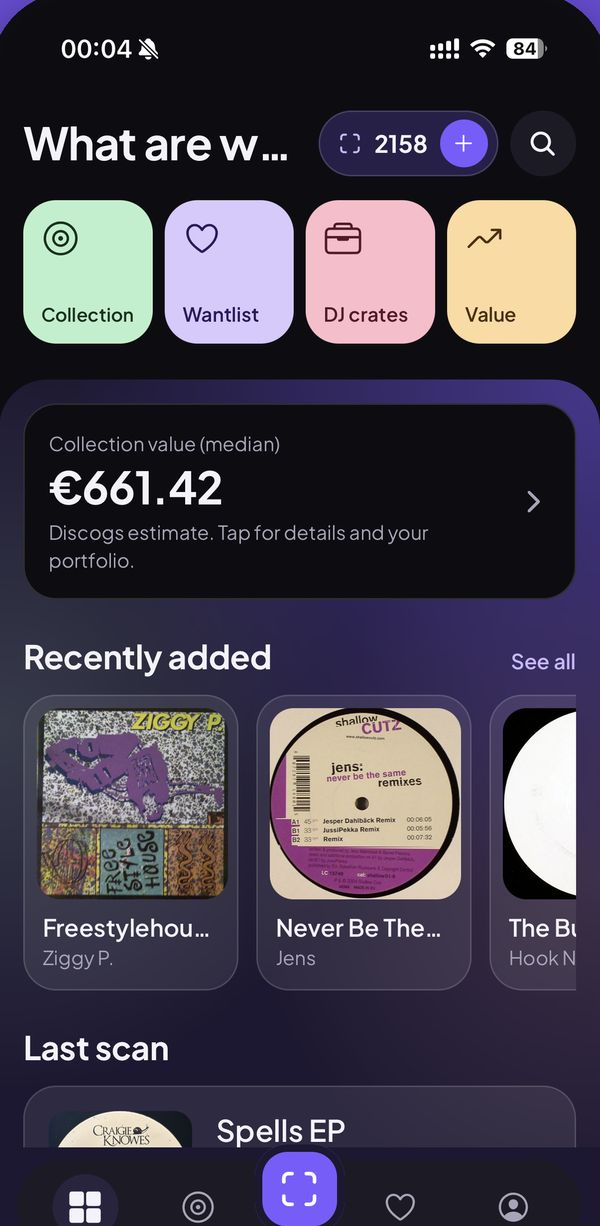
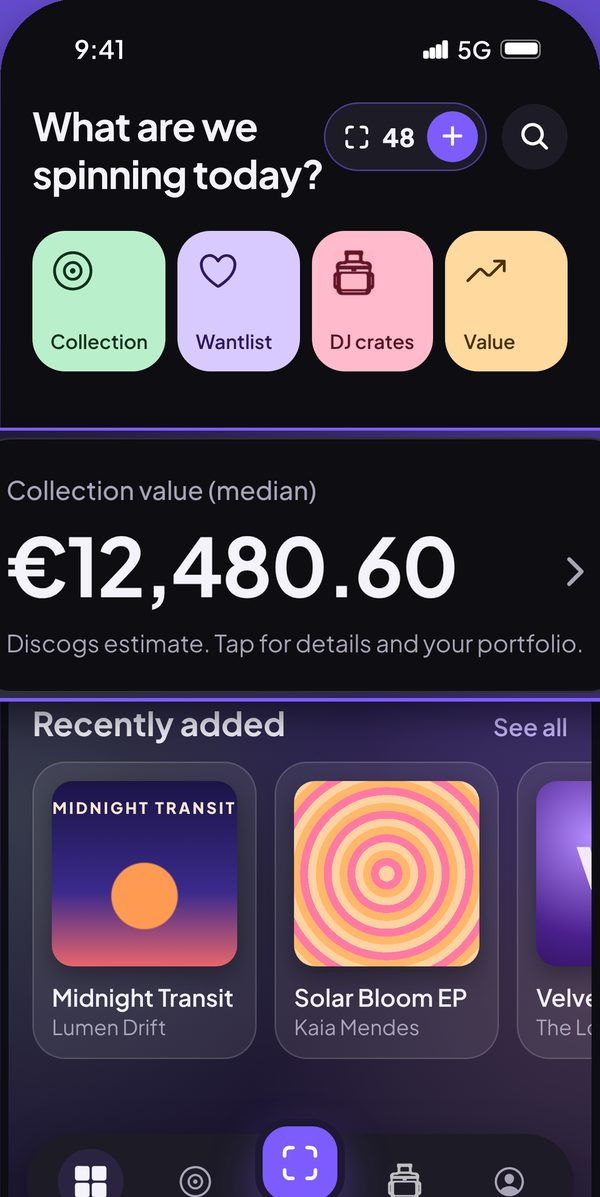
Landing: schermate della 1.2 nei telefoni (Home, Collection, Scan, Detail, Value, DJ bag, set list, BPM e tonalità)
Claude-Session: https://claude.ai/code/session_01H9m4HqvCpU9azWrPGgb3HK

diff --git a/index.html b/index.html
@@ -37,9 +37,9 @@
       </a>
     </div>
     <div class="fan" aria-hidden="true">
-      <div class="slot s1"><div class="phone"><div class="screen"><img src="img/valore.jpg" alt=""></div></div></div>
-      <div class="slot s2"><div class="phone"><div class="screen"><img src="img/collezione.jpg" alt=""></div></div></div>
-      <div class="slot s3"><div class="phone"><div class="screen"><img src="img/home.jpg" alt=""></div></div></div>
+      <div class="slot s1"><div class="phone"><div class="screen"><img src="img/value.jpg" alt=""></div></div></div>
+      <div class="slot s2"><div class="phone"><div class="screen"><img src="img/home.jpg" alt=""></div></div></div>
+      <div class="slot s3"><div class="phone"><div class="screen"><img src="img/dj-bag.jpg" alt=""></div></div></div>
       <div class="slot s4"><div class="phone"><div class="screen qr-screen">
         <img class="qr-logo" src="icon.png" alt="">
         <img class="qr-code" src="img/qr-app-store.svg" alt="">
@@ -53,21 +53,21 @@
     <div class="sticky">
       <div class="wide story-grid">
         <ol class="captions">
-          <li class="on"><span>01 · Collection</span><h2>Your whole Discogs collection, in your pocket.</h2><p>Sign in with Discogs and your records are already there, with filters for format, genre, style and year.</p></li>
-          <li><span>02 · Scan</span><h2>New record? Just scan it.</h2><p>From the barcode or a photo of the sleeve, it is in your vault in seconds.</p></li>
-          <li><span>03 · Condition</span><h2>Every detail in its place.</h2><p>Media and sleeve grades in one tap, the price you paid and market prices.</p></li>
-          <li><span>04 · Value</span><h2>Know what your vault is worth.</h2><p>The value of every record and of the whole collection, and how much you gained on what you paid.</p></li>
-          <li><span>05 · Wantlist</span><h2>The right record at the right price.</h2><p>Star the records you are hunting and get notified when they drop below your price.</p></li>
+          <li class="on"><span>01 · Home</span><h2>Your vinyl vault, ready for the night.</h2><p>Collection value, the latest records, your wantlist and your DJ crates, all on one screen.</p></li>
+          <li><span>02 · Collection</span><h2>Your whole Discogs collection, in your pocket.</h2><p>Sign in with Discogs and your records are already there, with filters for format, genre, style and year.</p></li>
+          <li><span>03 · Scan</span><h2>New record? Just scan it.</h2><p>From the barcode or a photo of the sleeve, it is in your vault in seconds.</p></li>
+          <li><span>04 · Condition</span><h2>Every detail in its place.</h2><p>Media and sleeve grades in one tap, the price you paid and market prices.</p></li>
+          <li><span>05 · Value</span><h2>Watch your vault grow in value.</h2><p>Market prices and gains record by record. Star the records you are hunting and get notified when they drop below your price.</p></li>
         </ol>
         <div class="story-stage" aria-hidden="true">
-          <div class="slot back b1"><div class="phone"><div class="screen"><img src="img/home.jpg" alt=""></div></div></div>
-          <div class="slot back b2"><div class="phone"><div class="screen"><img src="img/valore.jpg" alt=""></div></div></div>
+          <div class="slot back b1"><div class="phone"><div class="screen"><img src="img/dj-bag.jpg" alt=""></div></div></div>
+          <div class="slot back b2"><div class="phone"><div class="screen"><img src="img/set-list.jpg" alt=""></div></div></div>
           <div class="slot main"><div class="phone"><div class="screen stack">
-            <img class="on" src="img/collezione.jpg" alt="">
-            <img src="img/scansioni.jpg" alt="">
-            <img src="img/dettaglio.jpg" alt="">
-            <img src="img/valore.jpg" alt="">
-            <img src="img/wantlist.jpg" alt="">
+            <img class="on" src="img/home.jpg" alt="">
+            <img src="img/collection.jpg" alt="">
+            <img src="img/scan.jpg" alt="">
+            <img src="img/detail.jpg" alt="">
+            <img src="img/value.jpg" alt="">
           </div></div></div>
         </div>
       </div>
@@ -84,8 +84,8 @@
       <p>Pack a crate for every gig, tap in the BPM and set the Camelot key of every track, and find the records that mix together. Your Bandcamp purchases are there too.</p>
     </div>
     <div class="dj-stage" aria-hidden="true">
-      <div class="slot d1"><div class="phone"><div class="screen"><img src="img/dettaglio.jpg" alt=""></div></div></div>
-      <div class="slot d2"><div class="phone"><div class="screen"><img src="img/home.jpg" alt=""></div></div></div>
+      <div class="slot d1"><div class="phone"><div class="screen"><img src="img/set-list.jpg" alt=""></div></div></div>
+      <div class="slot d2"><div class="phone"><div class="screen"><img src="img/bpm-key.jpg" alt=""></div></div></div>
       <span class="key k1">8A</span><span class="key k2">9A</span><span class="key k3">124 BPM</span><span class="key k4">8B</span>
     </div>
     </div>

diff --git a/landing.css b/landing.css
@@ -44,7 +44,7 @@ body.landing {
 .slot { position: absolute; width: var(--w); will-change: transform; }
 .phone {
   width: 100%;
-  aspect-ratio: 600 / 1226;
+  aspect-ratio: 600 / 1197;
   padding: calc(var(--w) * 0.028);
   border-radius: calc(var(--w) * 0.17);
   background: linear-gradient(145deg, #E4E1EC 0%, #7A7590 18%, #2B2837 45%, #4A4560 70%, #C9C5D6 100%);

diff --git a/README.md b/README.md
@@ -11,5 +11,5 @@ Landing page e informativa sulla privacy di [Discollector](https://discollector.
   l'avanzamento `--p` di ogni sezione e cambia le schermate del racconto; con "riduci movimento" i telefoni restano fermi).
   `style.css` ha i token comuni e serve anche alla privacy.
 - Colori e font sono gli stessi di `src/components/theme.ts` dell'app (Plus Jakarta Sans in `fonts/`, licenza OFL).
-- `icon.png` e `favicon.png` vengono da `assets/icon.png` dell'app (logo borsa). `img/*.jpg` sono catture dell'app;
+- `icon.png` e `favicon.png` vengono da `assets/icon.png` dell'app (logo borsa). `img/*.jpg` sono gli schermi degli screenshot App Store 1.2 (release/app-store/1.2, ritagliati);
   `img/qr-app-store.svg` porta a https://apps.apple.com/app/id6830593741 (rigenerabile con `segno`).
